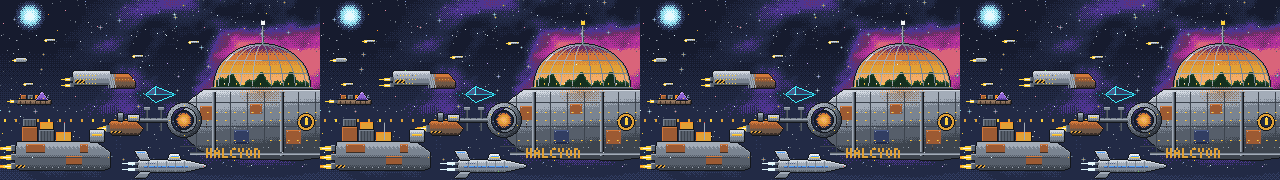
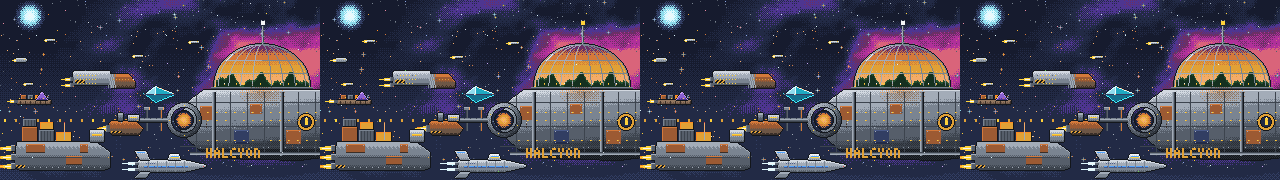
Ending art polish: solid Lumen skiff and warm rim light in the exodus, clearer Concord lattice, scaffolding trusses on the Clan gate, dead code out of the generators
Claude-Session: https://claude.ai/code/session_013c7XcjREWKUsXeesNxoYEV

diff --git a/art/_src/end_dome.py b/art/_src/end_dome.py
@@ -202,7 +202,6 @@ def cottage(im, gl, x, y, w, h, wall='s', roof='T', seed=1, lit=True, f=0, wrong
         c = 'Y' if t < 0.25 else wall if t < 0.7 else 'Q'
         if j >= y - 2: c = 'v' if t < 0.7 else 'q'
         im.put(i, j, c)
-    im.vline(x, y - h, h, 'K') if False else None
     # roof: a shingled dome that overhangs
     rh = max(4, int(w * 0.45))
     rc = ellipse_cells(x + w / 2.0, y - h, w / 2.0 + 2, rh) - rect_cells(x - 4, y - h + 1, w + 10, rh + 4)
@@ -220,7 +219,6 @@ def cottage(im, gl, x, y, w, h, wall='s', roof='T', seed=1, lit=True, f=0, wrong
             if lit: gl.blob(wx + 1, y - h + 5, 7, 'i' if wrong else 'y', 95, 2.0)
     elif lit:
         im.rect(x + 2, y - h + 3, 2, 2, 'z' if wrong else 'y'); gl.blob(x + 3, y - h + 4, 6, 'i' if wrong else 'y', 85, 2.0)
-    im.outline(body, 'K', empty_only=False) if False else None
     # chimney with a thread of smoke
     cx = x + w - 4
     im.rect(cx, y - h - rh - 1, 2, 3, 'W'); im.put(cx, y - h - rh - 1, 'M')
@@ -309,7 +307,7 @@ def ship(im, gl, x, y, f, wrong=False):
     for (i, j) in hull:
         t = (j - (y - 29)) / 22.0
         u = (i - x) / 65.0
-        v = 0.0 + t * 0.82 + (u * 0.12 if False else 0)
+        v = t * 0.82
         im.put(i, j, pick(1 - v * 1.05 + (0.08 if u < 0.3 else 0), ['E', 'W', 'S', 'M', 'L'], i, j, 2.6))
     im.outline(hull, 'K')
     # panel seams
@@ -424,20 +422,6 @@ def flowers(im, f, seed, region, n=30):
         if r.below(2): im.put(x - 1 + sw, y, lighten(c)); im.put(x + 1 + sw, y, c)
         if r.below(3) == 0: im.put(x + sw, y - 1, c)
 
-def fern(im, x, y, size, side, seed, f=0):
-    """an arching frond (foreground), leaflets down both sides; side -1 curls left, 1 right."""
-    r = Lcg(seed)
-    pts = []
-    for t in range(size):
-        pts.append((x + side * (t * 0.9), y - t * 0.8 + (t * t) / (size * 1.2)))
-    for k, (px_, py_) in enumerate(pts):
-        im.put(int(px_), int(py_), 'O')
-        w = max(1, int((size - k) * 0.28)) if k > 3 else 0
-        for d in range(1, w + 1):
-            im.put(int(px_ + side * d * 0.3), int(py_ - d * 0.9), 'R' if d < w else 'U')
-            im.put(int(px_ - side * d * 0.2), int(py_ + d * 0.9), 'O' if d < w else 'R')
-        if k > 3 and k % 2 == 0: im.put(int(px_) + side, int(py_) - 1, 'g')
-
 def ivy(im, gl, f, wrong=False):
     """strands of ivy climbing the base ring and planter vines hanging from the first ring."""
     r = Lcg(404)
@@ -463,14 +447,6 @@ def ivy(im, gl, f, wrong=False):
             im.put(px_ + (1 if j % 4 == 2 else 0), py_ + j, 'O' if j % 3 else 'R')
             if j % 2 == 1: im.put(px_ - 1, py_ + j, 'R'); im.put(px_ + 1, py_ + j, 'U')
         if (x // 17) % 2 == 0: im.put(px_, py_ + ln, ['m', 'y', 'z'][(x // 17) % 3])
-
-def glints(im, f):
-    r = Lcg(808)
-    for k in range(26):
-        x, y = r.below(300), r.below(70)
-        n = r.rng(3, 6)
-        for t in range(n):
-            if im.get(x + t, y + t) in ('N', 'I', 'J', 'Z'): im.put(x + t, y + t, 'j' if t < n - 1 else 'x')
 
 def leaf(im, cx, cy, ln, wd, ang, ramp, f=0):
     """a broad leaf lying along `ang` degrees from (cx, cy) (its base): rhombus outline, shaded, with a lighter midrib."""

diff --git a/art/_src/end_hollow.py b/art/_src/end_hollow.py
@@ -12,19 +12,6 @@ def fl(xw, z): return VX + xw * K / z, VY + CAMH * K / z          # floor point 
 def room(im, gl, f):
     # ceiling, walls, floor as flat planes in perspective
     im.rect(0, 0, 320, 180, 'N')
-    # ceiling (dark, with ribs that converge on the window)
-    for x in range(0, 321, 16):
-        im.line(x, 0, VX + (x - VX) * 0.45, 22, 'I')
-    for k in range(1, 8):
-        yy = int(22 * (1 - 0.62 ** k) / (1 - 0.62) * 0.4)
-    # side walls: panels
-    for sg in (-1, 1):
-        for k in range(0, 9):
-            t0, t1 = 0.62 ** k, 0.62 ** (k + 1)
-            xa, xb = VX + sg * 160 * (0.3 + 0.7 * t0), VX + sg * 160 * (0.3 + 0.7 * t1)
-            ta, tb = 4 + (88 - 4) * (1 - t0) * 0.0, 0
-    # window frame wall (the far wall): a dark slab with a wide curved window
-    wall = poly_cells([(0, 0), (320, 0), (320, 180), (0, 180)])
     # floor
     horizon = VY + 10
     for y in range(horizon, 180):
@@ -67,7 +54,6 @@ def window(im, gl, f):
     # a wide curved window; through it, the tunnel of the gate and the pale light at its end
     x0, x1, y0, y1 = 30, 290, 20, 98
     win = ellipse_cells(160, 98, 130, 80) & rect_cells(x0, y0, x1 - x0, y1 - y0)
-    win = {(x, y) for (x, y) in win}
     im.fill(win, 'N')
     cx, cy = 160, 60
     # the rings of the gate receding to the end of the tunnel (each ring is a dark steel hoop with a rim light on its upper-left)
@@ -113,15 +99,11 @@ def window(im, gl, f):
     edge = grow(win, 2) - win
     for (x, y) in edge: im.put(x, y, 'K')
     for (x, y) in grow(win, 1) - win: im.put(x, y, 'W' if (x < 160 and y < 60) else 'E')
-    for ang in (-62, -34, -12, 12, 34, 62):
-        for t in range(10, 140):
-            x = cx + t * math.cos(math.radians(90 + ang)) * 1.0; y = cy - t * math.sin(math.radians(90 + ang)) * 0.0
-        # vertical mullions at fixed x, slightly converging
+    # vertical mullions
     for mx in (70, 115, 205, 250):
         for y in range(y0 + 2, y1):
-            xx = int(mx + (160 - mx) * ((y1 - y) / float(y1 - y0)) * 0.0)
-            if (xx, y) in win:
-                im.put(xx, y, 'D'); im.put(xx + 1, y, 'E'); im.put(xx - 1, y, 'K')
+            if (mx, y) in win:
+                im.put(mx, y, 'D'); im.put(mx + 1, y, 'E'); im.put(mx - 1, y, 'K')
     # the sill
     im.hline(x0 + 6, y1 - 1, x1 - x0 - 12, 'M'); im.hline(x0 + 8, y1, x1 - x0 - 16, 'S'); im.hline(x0 + 10, y1 + 1, x1 - x0 - 20, 'E')
 
@@ -212,9 +194,6 @@ def render(f=0):
         x, y = int(round(x)), int(round(y))
         if 0 <= x < 320 and 0 <= y < 180 and y > VY + 12 and im.get(x, y) in ('D', 'E', 'W', 'N', 'S'):
             im.put(x, y, 'B' if (a // 6) % 2 == 0 else 'J')
-    for i in range(11):
-        ph = math.radians(-165 + i * 15)
-        x, y = fl(6.6 * math.cos(ph + math.pi), 5.0 - 2.9 * math.sin(ph + math.pi) * -1 + 0.4)
     # the horseshoe: eleven chairs, far to near, each turned a little
     chairs = []
     for i in range(11):

diff --git a/art/_src/end_exodus.py b/art/_src/end_exodus.py
@@ -20,6 +20,9 @@ def halcyon(im, gl, f):
     # the hull: a long slab with a tapered bow, rim-lit on top, warm window rows
     hull = poly_cells([(176, 122), (190, 100), (204, 90), (330, 90), (330, 156), (300, 160), (220, 158), (200, 150), (186, 138)])
     body(im, hull, ['E', 'W', 'S', 'M', 'L'], 90, 158, sharp=2.4, tl=0.25, x0=176, x1=330)
+    for (x, y) in hull:
+        if y > 140 and (x + y) % 2 == 0: im.put(x, y, darken(im.get(x, y)))
+        if y > 148: im.put(x, y, darken(im.get(x, y)))
     # seams: big panels, a lower belt, bolt rows
     for sx in range(196, 330, 17): im.vline(sx, 92, 64, 'E')
     for sy in (102, 126, 146): im.hline(180, sy, 150, 'E')
@@ -34,8 +37,6 @@ def halcyon(im, gl, f):
     # structural frames (heavier ribs every third panel), a pipe bundle low on the hull, rust streaks under the patches
     for sx in (213, 281):
         im.vline(sx - 1, 92, 64, 'M'); im.vline(sx, 92, 64, 'S'); im.vline(sx + 1, 92, 64, 'E'); im.vline(sx + 2, 92, 64, 'K')
-    for k in range(4):
-        im.hline(184, 153 + k % 2 - (1 if k == 3 else 0), 146, ['W', 'S', 'M', 'E'][k]) if False else None
     for i, c in enumerate(['E', 'S', 'M']): im.hline(190, 152 + i, 140, c)
     for (x, y) in ((206, 121), (292, 145), (241, 145), (309, 118)):
         for j in range(5 + x % 4): 
@@ -144,6 +145,18 @@ def bounce(im, cx, cy, r, letters='SMLH'):
             d = math.hypot((x - cx) / 1.6, y - cy) / r
             if d < 1 and (1 - d) * 0.75 > bay(x, y): im.put(x, y, 'Y' if c in 'LH' else 'Q' if c == 'M' else 'q')
 
+def warm_rim(im, x_max=215):
+    """the warm light of the dome falls on every surface of the convoy that faces Halcyon (their right-hand edges)."""
+    sky_ = ('N', 'I', 'J', 'Z', 'V', 'd', 'P', 'w', 'm', '.')
+    marks = []
+    for y in range(30, 180):
+        for x in range(0, x_max):
+            c = im.get(x, y)
+            if c in ('S', 'M', 'L', 'H', 'W', 'u', 'T', 'Q', 'i', 'C', 'z') and im.get(x + 1, y) in sky_ and im.get(x + 1, y) is not None:
+                marks.append((x, y, c))
+    for (x, y, c) in marks:
+        if (x * 7 + y * 3) % 3 != 0 or x > 150 + 40: im.put(x, y, 'Y' if c in ('M', 'L', 'H', 'S', 'i', 'z') else 'T')
+
 def convoy(im, gl, f):
     for (x, y, L, c) in ((22, 60, 12, ('S', 'M', 'L')), (52, 40, 10, ('S', 'M', 'L')), (140, 56, 11, ('S', 'M', 'L')), (196, 42, 10, ('M', 'L', 'H')), (30, 84, 9, ('S', 'M', 'L'))):
         dart(im, gl, x, y + (1 if f % 2 and x % 4 == 0 else 0), L, f, x)
@@ -162,5 +175,6 @@ def render(f=0):
     bounce(im, DCX, 92, 16)
     arm(im, gl, f)
     convoy(im, gl, f)
+    warm_rim(im)
     motes(im, gl, f, 91, 26, (0, 20, 319, 170), ('z', 'L', 'M'), 1, 0)
     return im, gl

diff --git a/art/_src/hall_kit.py b/art/_src/hall_kit.py
@@ -262,7 +262,7 @@ def ornaments():
     # pips: a lit diamond and an empty one (8 x 8) for ratings and counters; a lit star (10 x 10)
     def pip(s, on):
         dia = poly_cells([(4, 0), (8, 4), (4, 8), (0, 4)])
-        s.fill(dia, i1 if on else D); s.outline(dia, K) if False else None
+        s.fill(dia, i1 if on else D)
         for (x, y) in dia:
             if on and x + y < 7: s.put(x, y, i2)
             if not on and (x + y) < 6: s.put(x, y, E)
@@ -292,7 +292,7 @@ def ornaments():
             rr = 14 if k % 2 == 0 else 11
             pts.append((cx + rr * math.cos(a), cy + rr * math.sin(a)))
         star = poly_cells(pts)
-        s.shade(star, [K, u_, i0, i1, i2], cx - 3, cy - 3, 15, 15, sharp=1.5) if False else s.fill(star, i1)
+        s.fill(star, i1)
         for (x, y) in star:
             if (x - cx) + (y - cy) < -4: s.put(x, y, i2)
             elif (x - cx) + (y - cy) > 6: s.put(x, y, i0)
@@ -306,8 +306,6 @@ def ornaments():
     put('seal', 0, 20, seal, 32, 40)
     # banner pieces behind the ending title: left cap, a tiling middle (8 x 20), right cap; steel with an amber edge
     def b_mid(s):
-        for y in range(20):
-            s.put(0, y, K) if False else None
         for x in range(8):
             s.put(x, 3, K); s.put(x, 4, i2); s.put(x, 5, i1)
             for y in range(6, 14): s.put(x, y, S if y < 8 else W if y < 12 else E)
@@ -325,8 +323,6 @@ def ornaments():
         p(3, 10, i2); p(4, 10, 'H'); p(6, 10, i1)
     put('banner_l', 40, 20, b_cap, 16, 20); put('banner_mid', 60, 20, b_mid, 8, 20); put('banner_r', 72, 20, lambda s: b_cap(s, True), 16, 20)
     return A, regs
-
-u_ = 'u'
 
 def export(art_dir):
     ui = art_dir + '/ui'

diff --git a/art/_src/ships_side.py b/art/_src/ships_side.py
@@ -22,7 +22,7 @@ def flame(im, gl, x, y, L, f, col=('H', 'y', 'o'), r=2):
     """an exhaust trailing LEFT from (x, y): L px long, flickering with the frame."""
     ln = L + (f % 2) * 2 - (1 if f == 3 else 0)
     for k in range(ln):
-        w = max(0, r - k * r // max(1, ln - 1)) if False else int(round(r * (1 - k / float(ln))))
+        w = int(round(r * (1 - k / float(ln))))
         for dy in range(-w, w + 1):
             c = col[0] if (abs(dy) == 0 and k < ln * 0.4) else col[1] if abs(dy) <= max(0, w - 1) or k < ln * 0.5 else col[2]
             im.put(x - k, y + dy, c)
@@ -133,13 +133,13 @@ def lumen(im, gl, x, y, L, f, seed=1):
     cells = poly_cells(P)
     top = poly_cells([P[0], P[1], P[2], (x0 + L * 0.34, y)])
     bot = poly_cells([P[0], (x0 + L * 0.34, y), P[2], P[3]])
-    im.fill(top, 'J'); im.fill(bot, 'I')
+    im.fill(top, 'C'); im.fill(bot, 'B')
     mid = poly_cells([P[0], P[1], (x0 + L * 0.34, y)])
-    im.fill(mid, 'j')
+    im.fill(mid, 'i')
     im.outline(cells, 'N')
-    for (a, b) in zip(P, P[1:] + P[:1]): im.line(a[0], a[1], b[0], b[1], 'c')
-    im.line(P[0][0], P[0][1], P[2][0], P[2][1], 'C')
-    im.line(P[1][0], P[1][1], x0 + L * 0.34, y, 'c')
+    for (a, b) in zip(P, P[1:] + P[:1]): im.line(a[0], a[1], b[0], b[1], 'z' if a[1] <= y and b[1] <= y else 'c')
+    im.line(P[0][0], P[0][1], P[2][0], P[2][1], 'J')
+    im.line(P[1][0], P[1][1], x0 + L * 0.34, y, 'z')
     im.put(int(x0 + L * 0.34), y, 'H'); im.put(int(x0 + L * 0.34) - 1, y, 'z')
     gl.blob(x0 + L * 0.34, y, L * 0.7, 'c', 70 if f % 2 == 0 else 55, 1.7, squash=0.8)
     for k in range(3):                                                # a trail of shed crystal dust

diff --git a/art/_src/end_retire.py b/art/_src/end_retire.py
@@ -272,9 +272,7 @@ def foreground(im, gl, f):
     gl.blob(mx - 2, my - 6, 20, 'y', 40, 1.5, squash=0.7)
     # the helmet on its hook: a dome, a dark visor with the last of the sun in it, a strap
     hx, hy = 100, y - 44
-    im.vline(hx, y - 4, -(hy - 4 - y + 4), 'W') if False else None
     im.rect(hx - 2, hy - 10, 4, 12, 'E'); im.vline(hx - 2, hy - 10, 12, 'S'); im.rect(hx - 1, hy - 14, 3, 5, 'W')
-    im.hline(hx - 6, hy - 11, 18, 'S') if False else None
     im.line(hx + 1, hy + 2, hx + 9, hy + 2, 'W'); im.line(hx + 9, hy + 2, hx + 9, hy + 6, 'W')                  # the hook arm
     hx2, hy2 = hx + 9, hy + 6
     dome = ellipse_cells(hx2, hy2 + 10, 11, 11)

diff --git a/art/_src/end_gate.py b/art/_src/end_gate.py
@@ -144,7 +144,6 @@ def girder(im, x0, y0, x1, y1, c1='M', c2='L', c3='W'):
     for (x, y) in line_cells(x0, y0, x1, y1):
         im.put(x, y, c2)
         im.put(int(round(x + vx * 3)), int(round(y + vy * 3)), c3)
-        im.put(int(round(x + vx * 1.5 + 1)), int(round(y + vy * 1.5 + 1)), 'D') if False else None
     for k in range(0, n, 4):
         a = (x0 + ux * k, y0 + uy * k)
         b = (x0 + ux * (k + 2) + vx * 3, y0 + uy * (k + 2) + vy * 3)
